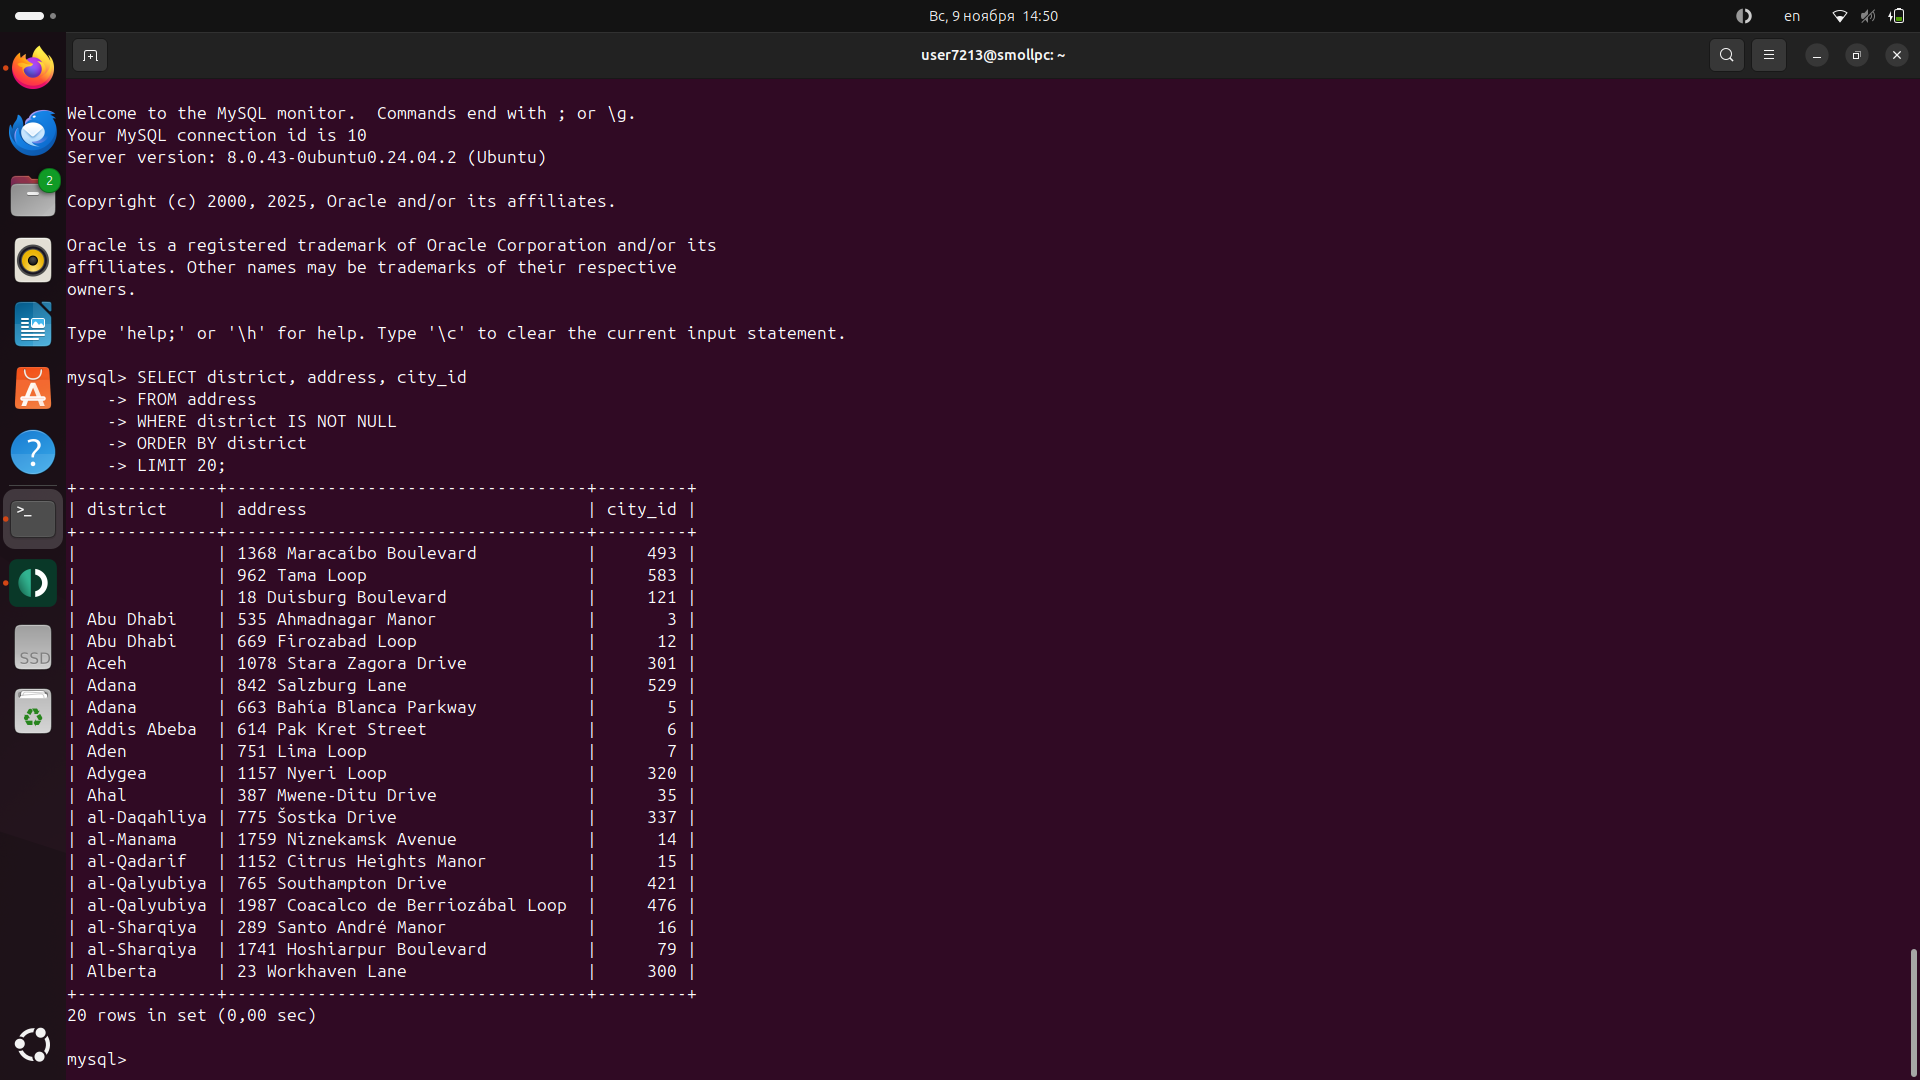
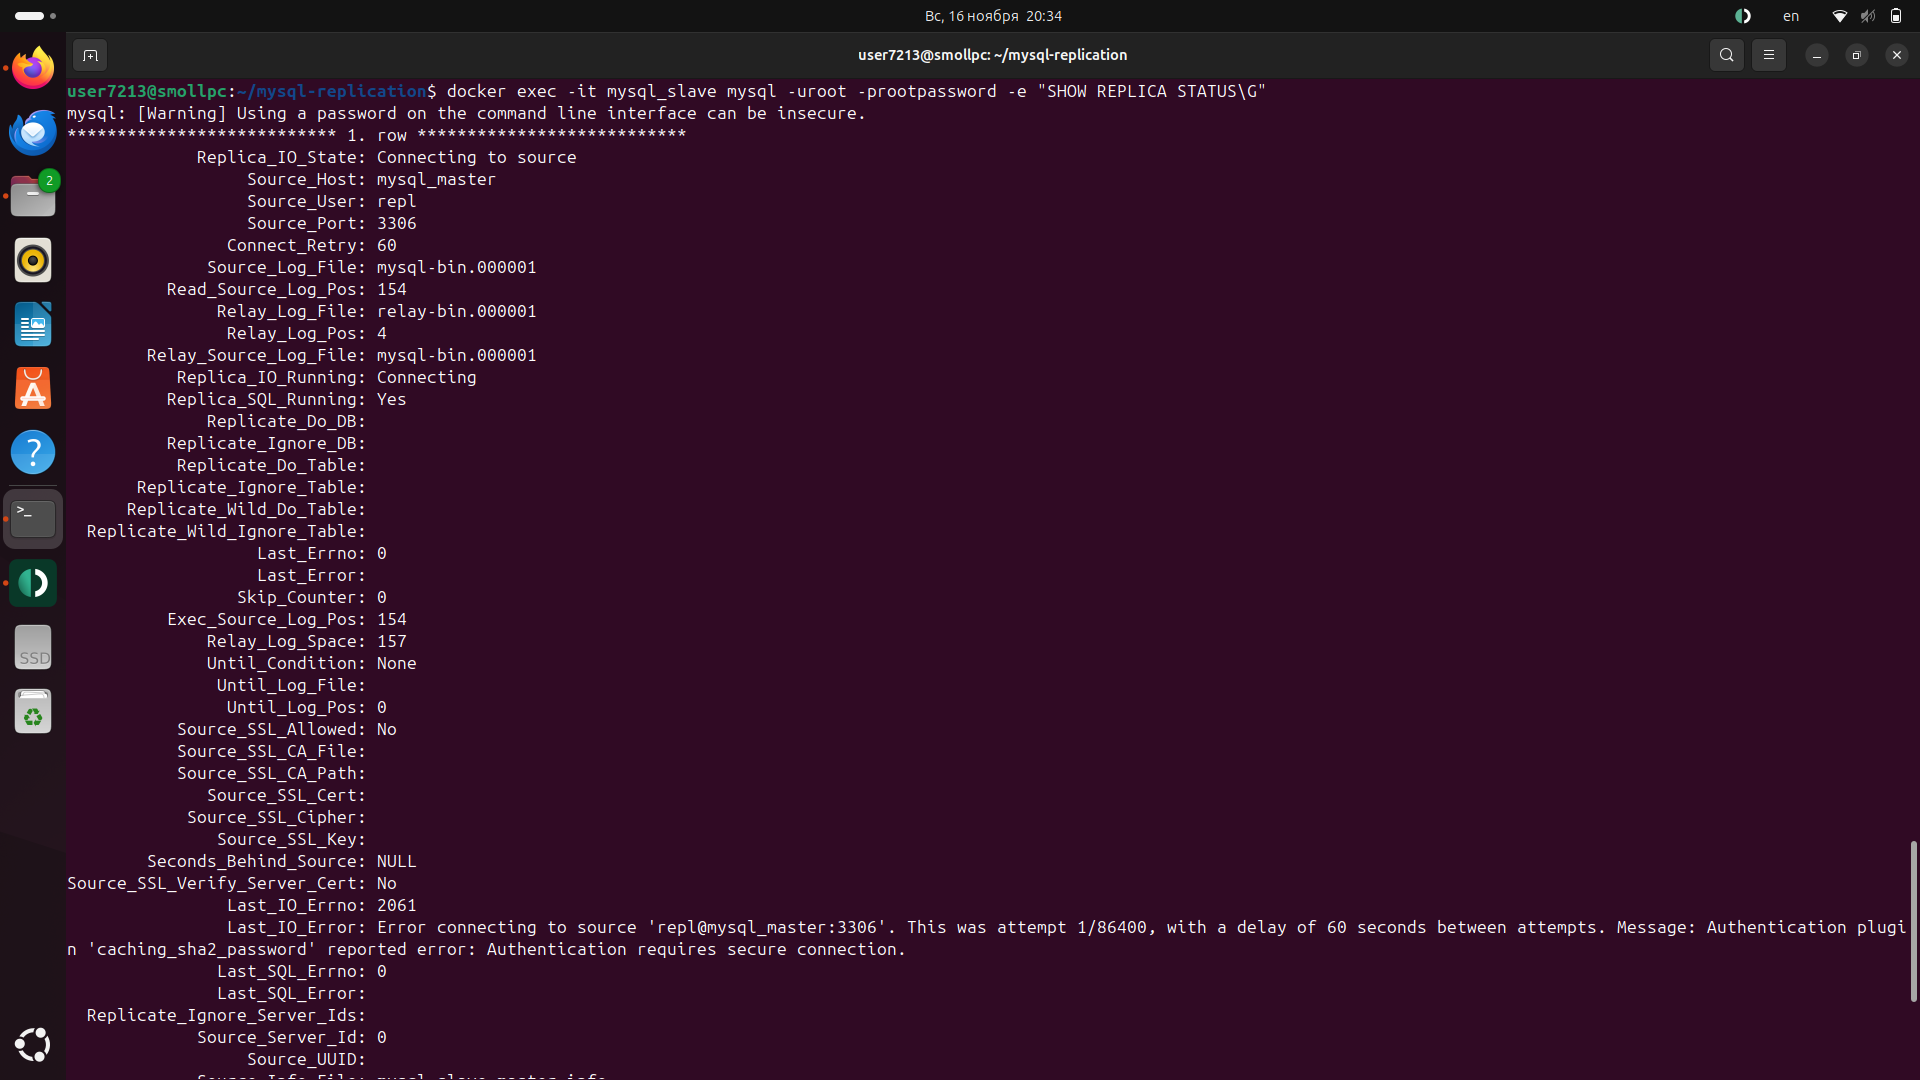
hw21

diff --git a/README.md b/README.md
@@ -1,4 +1,4 @@
-Домашнее задание к занятию «SQL. Часть 1» - Алексей Заруцкий
+Домашнее задание к занятиям «Репликация и масштабирование» - Алексей Заруцкий
 Инструкция по выполнению домашнего задания
 
     Сделайте fork репозитория c шаблоном решения к себе в Github и переименуйте его по названию или номеру занятия, например, https://github.com/имя-вашего-репозитория/gitlab-hw или https://github.com/имя-вашего-репозитория/8-03-hw).
@@ -13,93 +13,180 @@
     Любые вопросы задавайте в чате учебной группы и/или в разделе «Вопросы по заданию» в личном кабинете.
 
 Желаем успехов в выполнении домашнего задания.
-
-Задание можно выполнить как в любом IDE, так и в командной строке.
 Задание 1
 
-Получите уникальные названия районов из таблицы с адресами, которые начинаются на “K” и заканчиваются на “a” и не содержат пробелов.
+Выполните конфигурацию master-slave репликации, примером можно пользоваться из лекции.
+
+Приложите скриншоты конфигурации, выполнения работы: состояния и режимы работы серверов.
 Задание 2
 
-Получите из таблицы платежей за прокат фильмов информацию по платежам, которые выполнялись в промежуток с 15 июня 2005 года по 18 июня 2005 года включительно и стоимость которых превышает 10.00.
-Задание 3
+Разработайте план для выполнения горизонтального и вертикального шаринга базы данных. База данных состоит из трёх таблиц:
 
-Получите последние пять аренд фильмов.
-Задание 4
+    пользователи,
+    книги,
+    магазины (столбцы произвольно).
 
-Одним запросом получите активных покупателей, имена которых Kelly или Willie.
+Опишите принципы построения системы и их разграничение или разбивку между базами данных.
 
-Сформируйте вывод в результат таким образом:
-
-    все буквы в фамилии и имени из верхнего регистра переведите в нижний регистр,
-    замените буквы 'll' в именах на 'pp'.
-
+Пришлите блоксхему, где и что будет располагаться. Опишите, в каких режимах будут работать сервера.
 Дополнительные задания (со звёздочкой*)
 
 Эти задания дополнительные, то есть не обязательные к выполнению, и никак не повлияют на получение вами зачёта по этому домашнему заданию. Вы можете их выполнить, если хотите глубже шире разобраться в материале.
-Задание 5*
+Задание 3*
 
-Выведите Email каждого покупателя, разделив значение Email на две отдельных колонки: в первой колонке должно быть значение, указанное до @, во второй — значение, указанное после @.
-Задание 6*
-Доработайте запрос из предыдущего задания, скорректируйте значения в новых колонках: первая буква должна быть заглавной, остальные — строчными.
+Опишите основные преимущества использования масштабирования методами:
 
+    активный master-сервер и пассивный репликационный slave-сервер;
+    master-сервер и несколько slave-серверов;
+    активный сервер со специальным механизмом репликации — distributed replicated block device (DRBD);
+    SAN-кластер.
+
+Дайте ответ в свободной форме.
+Задание 4*
+
+Выполните настройку выбранных методов шардинга из задания 2.
+
+Пришлите конфиг Docker и SQL скрипт с командами для базы данных.
 
 
 # Решение
 
 ## Задание 1
-Команды: 
-mysql -u sys_temp -p sakila
-
-SELECT DISTINCT district
-FROM address
-WHERE district LIKE 'K%a'
-  AND district NOT LIKE '% %'
-ORDER BY district;
-
 ![Задание 1](Скриншот1.png)
+![Задание 1](Скриншот2.png)
 
 ## Задание 2
-Команды для выполнения задания:
-SELECT 
-    payment_id,
-    customer_id,
-    staff_id,
-    rental_id,
-    amount,
-    payment_date
-FROM payment
-WHERE payment_date BETWEEN '2005-06-15 00:00:00' AND '2005-06-18 23:59:59'
-  AND amount > 10.00
-ORDER BY payment_date;
+1. Принципы вертикального и горизонтального шардинга
 
-![Задание 2](Скриншот2.png)
+Вертикальный шардинг
 
-## Задание 3
-Команды для выполнения задания:
-SELECT 
-    rental_id,
-    rental_date,
-    inventory_id,
-    customer_id,
-    return_date,
-    staff_id
-FROM rental
-ORDER BY rental_date DESC
-LIMIT 5;
+Разделение по функциональным модулям.
+Каждый шард = отдельная логическая область системы.
 
-![Задание 3](Скриншот3.png)
+Принцип
 
-## Задание 4
-Команды
-SELECT 
-    customer_id,
-    REPLACE(LOWER(first_name), 'll', 'pp') AS modified_first_name,
-    LOWER(last_name) AS modified_last_name,
-    email,
-    active
-FROM customer
-WHERE first_name IN ('Kelly', 'Willie')
-  AND active = 1;
+Мы разделяем данные по "типу":
+Пользователи — в одной БД
+Книги — в другой БД
+Магазины — в третьей БД
 
-![Задание 4](Скриншот4.png)
+Это даёт:
+
+Независимую масштабируемость для пользователей, книг, магазинов
+разные режимы работы БД (например, только чтение, репликации, кеширование)
+
+Горизонтальный шардинг 
+Разделение строк одной таблицы между разными серверами.
+
+Принцип
+Например, таблица пользователи может быть разделена по диапазону user_id:
+
+Shard 1 → user_id 1–1 000 000
+Shard 2 → user_id 1 000 001–2 000 000
+
+Таблица книги может быть разделена по категории:
+
+Художественная литература → Shard A
+Учебники → Shard B
+Комиксы → Shard C
+
+Таблица магазины может быть разделена по географическому признаку:
+
+Europe → Shard EU
+Asia → Shard APAC
+America → Shard US
+
+2. План разработки шардинга
+Этап 1 — Вертикальный шардинг - функциональное разделение
+3 отдельные БД:
+
+БД 1: users_db
+
+Хранит:
+
+users
+Может работать в режиме:
+мастер - запись
+2–3 слейва - чтение
+
+БД 2: books_db
+
+Хранит:
+
+books
+Может работать в режиме:
+master - запись
+slave - быстрый поиск, API каталога книг
+
+БД 3: stores_db
+
+Хранит:
+
+stores
+Может работать в режиме:
+только мастер (если низкая нагрузка)
+Или
+master + slave для аналитики
+
+Этап 2 — Горизонтальный шардинг (масштабирование по строкам)
+Пользователи — шардирование по диапазону user_id
+
+users_db_shard_1
+user_id 1–1M
+
+users_db_shard_2
+user_id 1M–2M
+users_db_shard_N
+
+и так далее
+
+Механизм выбора шарда может быть:
+
+по user_id (range-based)
+или по хэшированию (hash(user_id) % N)
+
+Книги — шардирование по тематике/типу (category-based)
+
+books_shard_1 – Fiction
+books_shard_2 – Education
+books_shard_3 – Comics
+books_shard_4 – Other
+
+Магазины — географическое шардирование
+
+stores_shard_eu – Европа
+stores_shard_us – Америка
+stores_shard_apac – Азия
+
+Этап 3 — Репликация
+
+Каждый шард имеет:
+
+master — обработка записей
+slave — чтение, аналитика, масштабирование
+
+Режимы MySQL:
+
+Master - принимающий изменения
+Slave - Replica_IO_Running + Replica_SQL_Running
+
+Этап 4 — Сервис маршрутизации запросов (Query Router)
+
+Нужен отдельный уровень:
+
+Router-service выполняет:
+Определяет, к какому шарду обратиться. Определяет, читать или писать. Перенаправляет запрос к:
+master (если INSERT/UPDATE/DELETE)
+slave (если SELECT)
+
+Это может быть:
+
+Свой сервис (Node.js / Go)
+
+ProxySQL
+MySQL Router
+
+3. Блок-схема архитектуры
+![Задание 2](Скриншот3.png)
+
 
